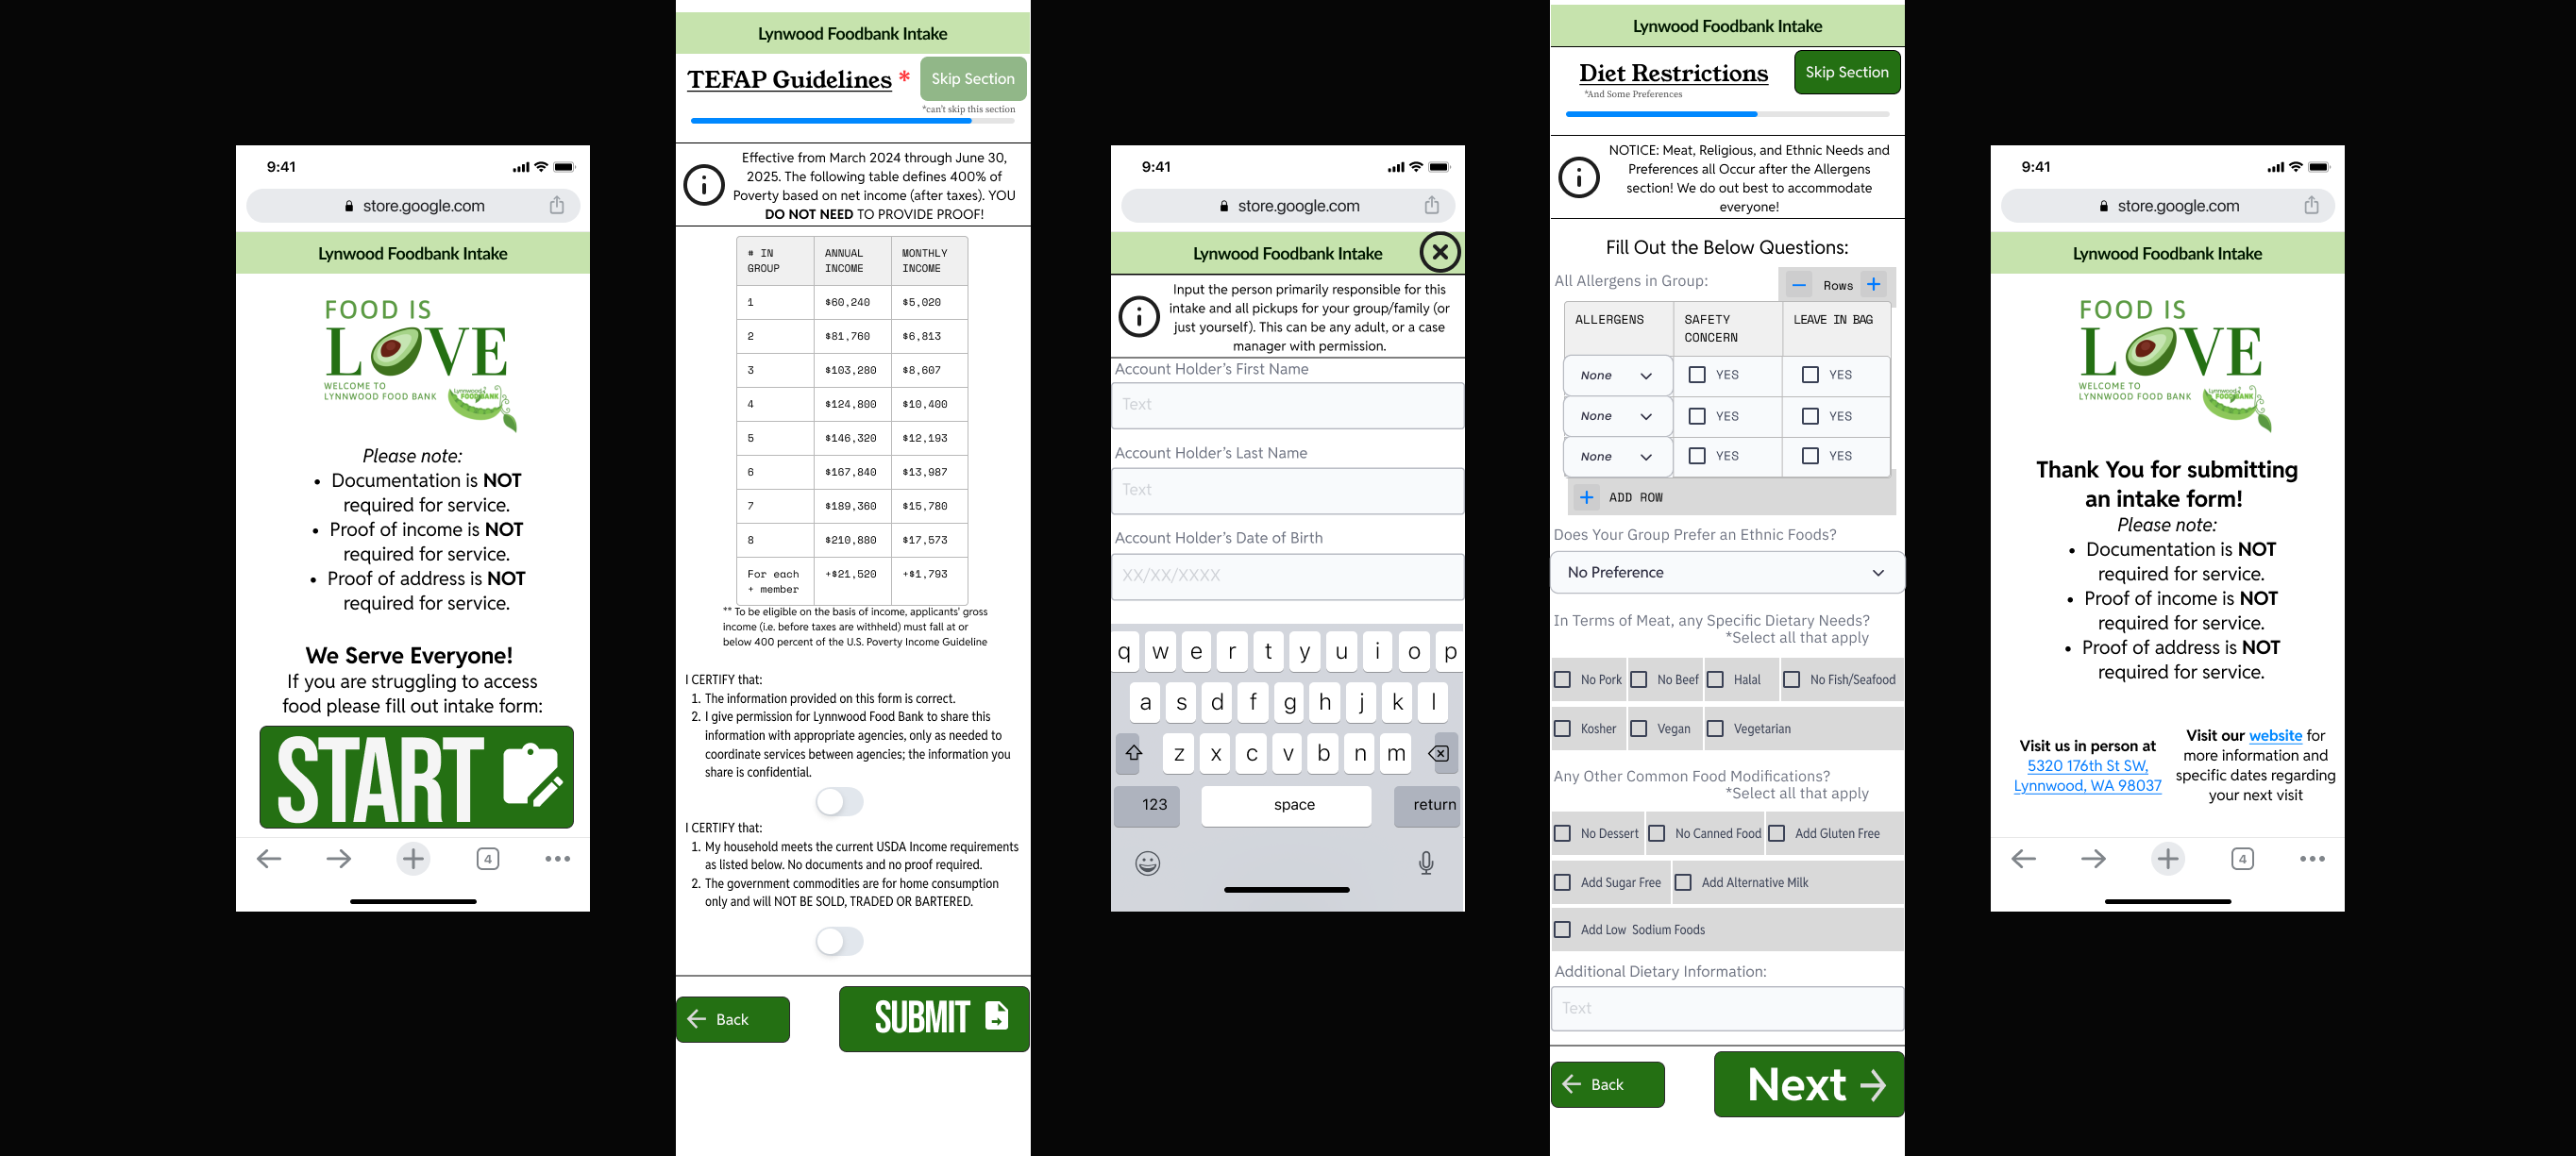
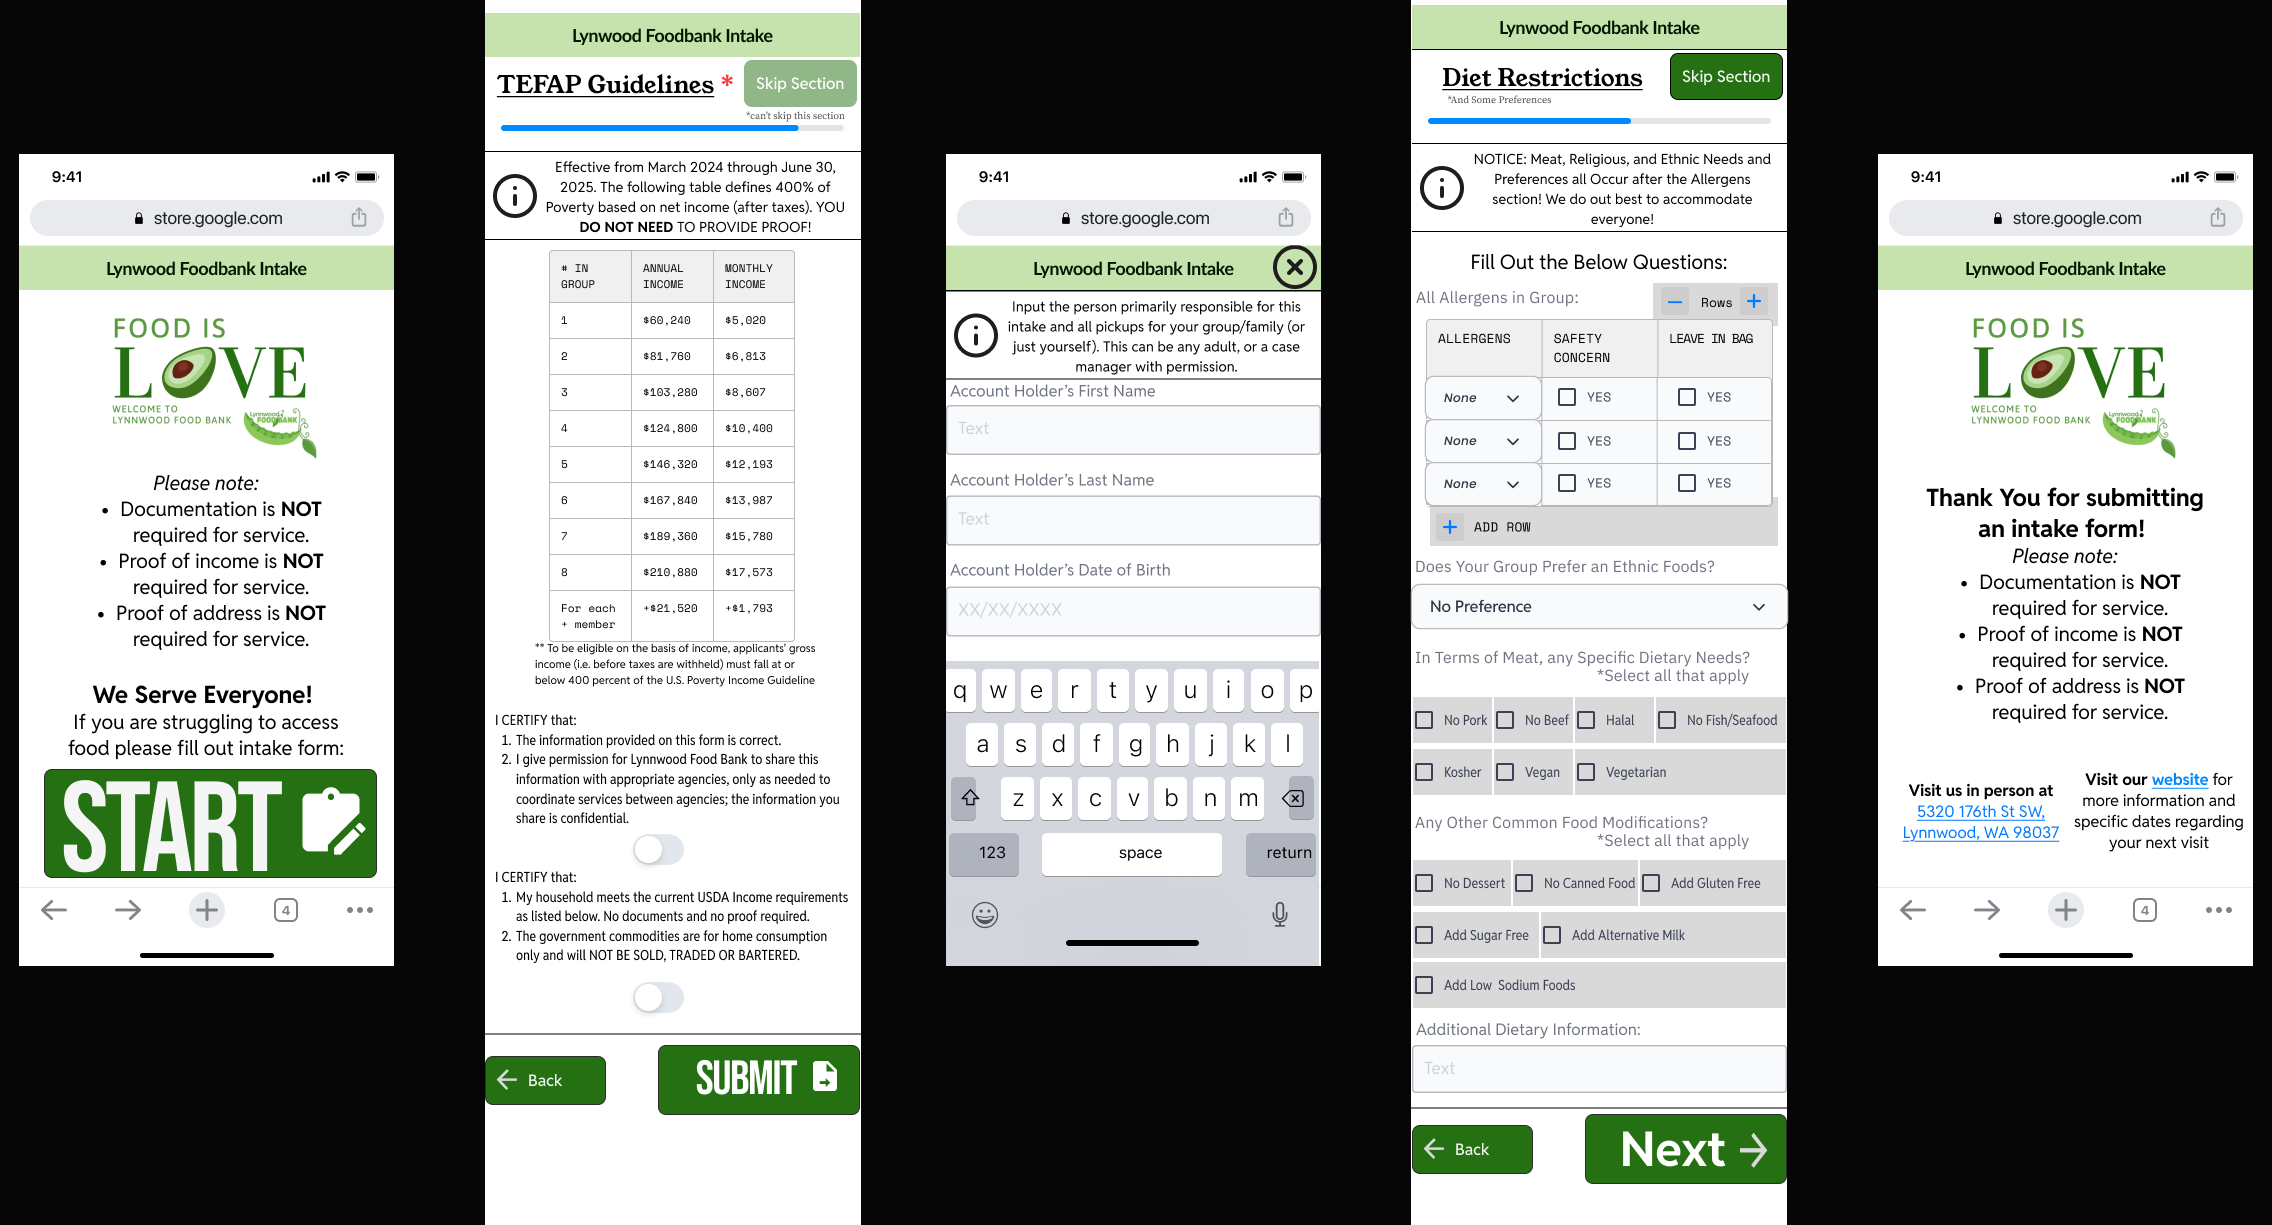
research section done, want to do a better mock up of the statements though

diff --git a/src/Research.tsx b/src/Research.tsx
@@ -45,10 +45,7 @@ function ResearchProjectCard({ project }: { project: Project }) {
                     <ProjectCarousel images={project.images} />
                 </div>
             </RegularProjectInfoCard>
-            <RegularInfoTitleCard title="Description:" handleClick={() => (project)} >
-                {typeof project.description === "string" ? (
-                    project.description
-                ) : ''}
+            <RegularInfoTitleCard title="Description:" description={project.description as { type: "tailwind"; content: { type: "text"; value: string; }[]; }} handleClick={() => (project)} children={undefined} >
             </RegularInfoTitleCard>
             <RegularInfoTitleCard title="Skills:" handleClick={() => (project)} >
                 {project.skills!.join(", ")}